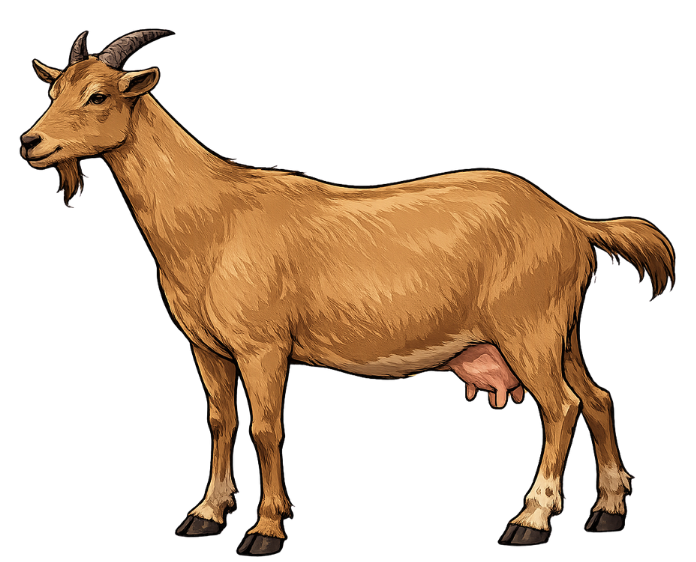
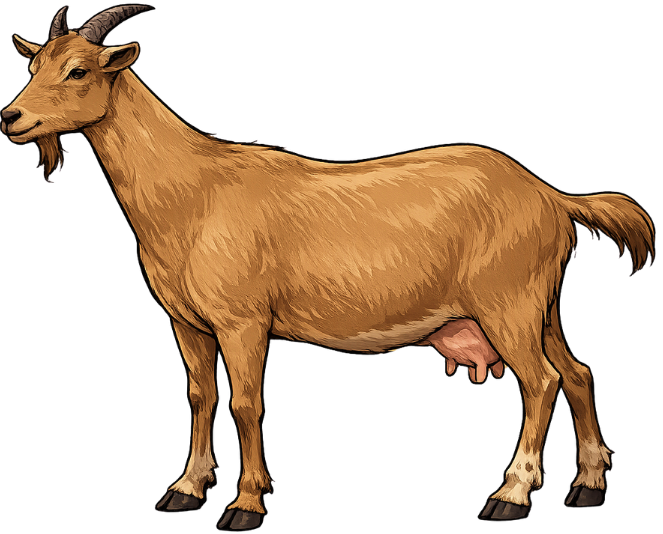
fix birds page

Changed region(s): [[0.0, 0.0, 0.9955, 1.0]]

diff --git a/src/pages/animals/AnimalsExercise.css b/src/pages/animals/AnimalsExercise.css
@@ -449,9 +449,10 @@
   column-gap: 8px !important;
 }
 
-/* Левая сторона: картинка + кружок, название под картинкой */
+/* левая сторона: животное + кружок */
 .animals-column:first-child .animals-match-row {
-  grid-template-columns: 72px 15px !important;
+  grid-template-columns: 82px 18px !important;
+  column-gap: 10px !important;
 }
 
 .animals-column:first-child .animal-img {
@@ -469,9 +470,10 @@
   grid-row: 2 !important;
 }
 
-/* Правая сторона: кружок + картинка, название под картинкой */
+/* правая сторона: кружок + животное */
 .animals-column:last-child .animals-match-row {
-  grid-template-columns: 15px 72px !important;
+  grid-template-columns: 18px 82px !important;
+  column-gap: 10px !important;
 }
 
 .animals-column:last-child .animal-dot {
@@ -490,8 +492,8 @@
 }
 
 .animal-img {
-  width: 75px !important;
-  height: 75px !important;
+  width: 80px !important;
+  height: 80px !important;
   object-fit: contain !important;
 }
 
@@ -511,7 +513,7 @@
 .animal-dot {
   width: 15px !important;
   height: 15px !important;
-  flex-shrink: 0 !important;
+  justify-self: center !important;
 }
 
 
